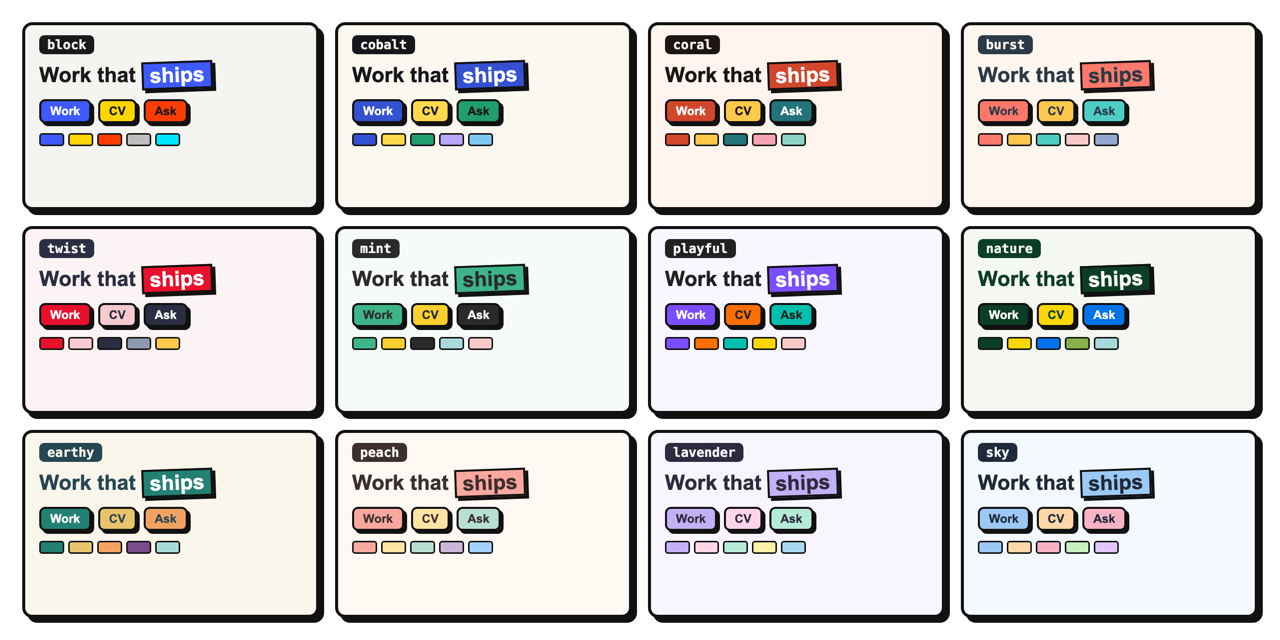
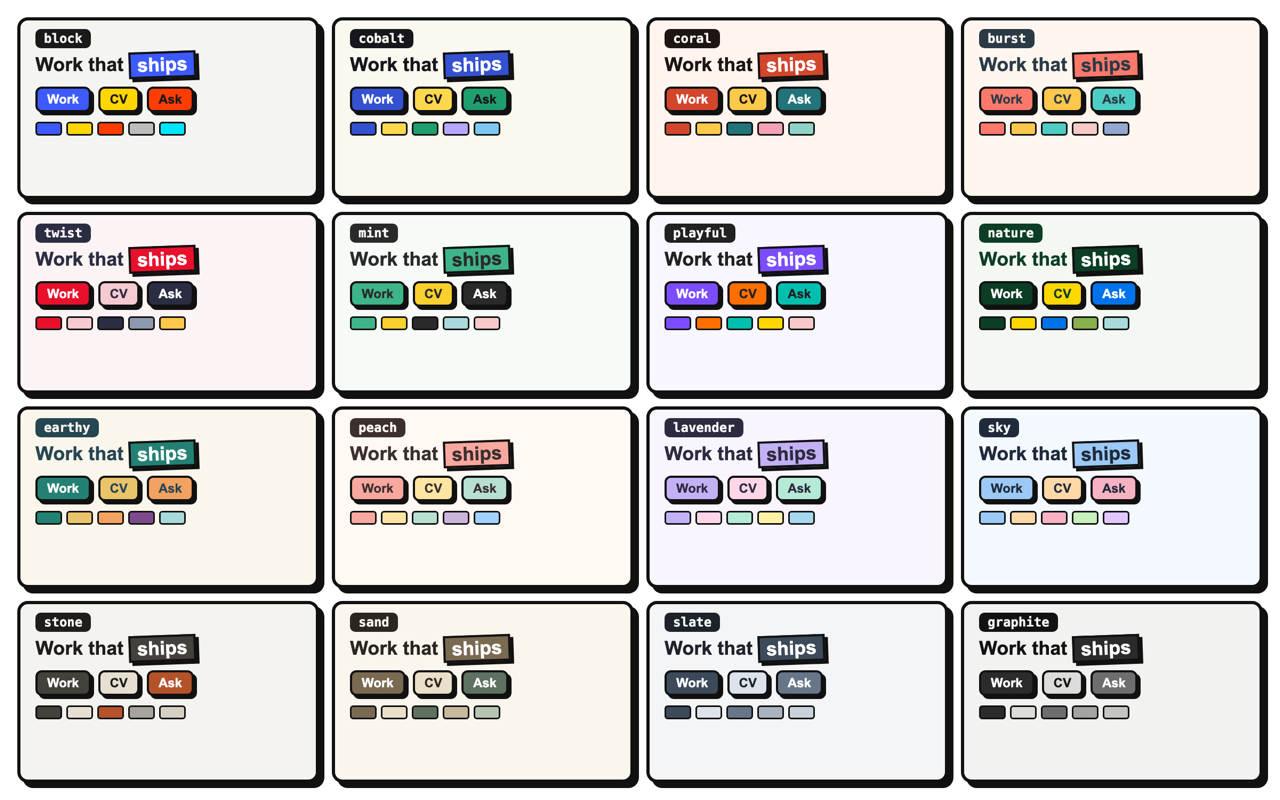
Themes: four neutral palettes, strip with all sixteen

diff --git a/README.md b/README.md
@@ -20,7 +20,7 @@ Everything is already done for you.
 | **Admin panel** | Edit projects, tags, FAQs and experience in the browser at `/admin`. |
 | **Security** | Every admin action checks the session, login attempts are limited, and AI inputs have length caps. |
 | **Rate limits** | Per-IP limits on every AI endpoint. |
-| **Colour themes** | Ready-made [colour themes](#colour-themes), including pastels, switched with one line. |
+| **Colour themes** | Ready-made [colour themes](#colour-themes), including pastels and neutrals, switched with one line. |
 | **Feature flags** | Switch any part off in `site.config.ts` or with an environment variable. |
 | **Optional AI layer** | Switch the chat, the fit check and the MCP server off and you have a plain portfolio. |
 
